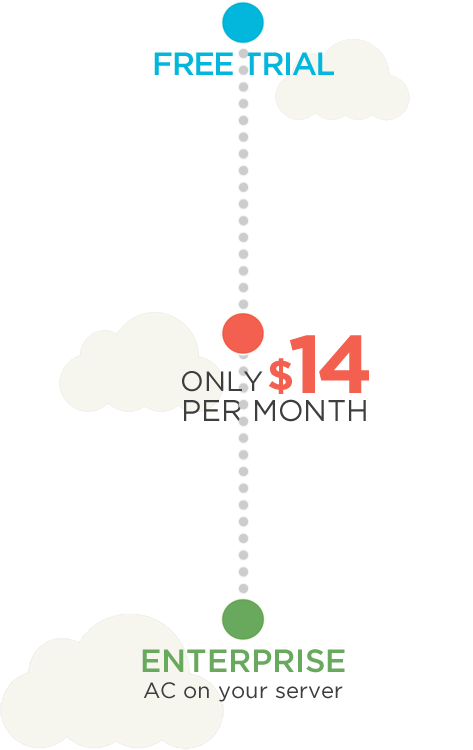
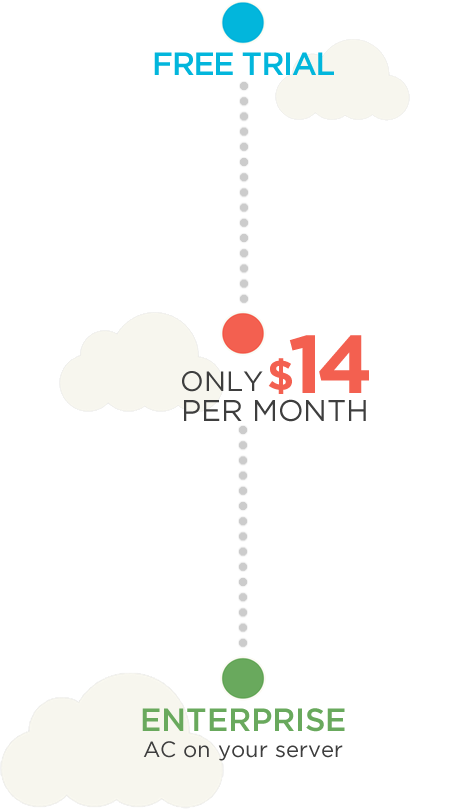
Pricing is now responsive

diff --git a/source/css/products/_pricing.css.scss b/source/css/products/_pricing.css.scss
@@ -2,38 +2,84 @@ body.products {
 
   #overview-sections {
     display: none;
-    @include apply-to(more-than, iphone-landscape) {
+    @include apply-to(more-than, ipad-portrait) {
       display: block;
     }
   }
 
   #pricing-section {
-    background: transparent url('/img/products/track2.png') no-repeat center center;
-    position: relative;
-    top: -20px;
+    background: transparent url('/img/products/track-mobile.png') no-repeat top center;
     z-index: 1;
+
+    @include apply-to(more-than, ipad-portrait) {
+      background-image: url('/img/products/track2.png');
+      position: relative;
+      background-size: 116%;
+      top: -20px;
+    }
+    @include apply-to(more-than, ipad-landscape) {
+      background-size: inherit;
+    }
 
     .container {
       font-size: 0.8em;
-      margin-bottom: 0;
-      height: 729px;
+      height: 980px;
+      margin-top: 30px;
+
+      @include apply-to(more-than, ipad-portrait) {
+        height: 592px;
+        margin-top: 0;
+      }
+      @include apply-to(more-than, ipad-portrait) {
+        height: 730px;
+      }
     }
 
     h3 {
       font: 32px gotham_mediumregular;
       text-transform: uppercase;
       margin: 0;
+      display: none;
+
+      @include apply-to(more-than, ipad-portrait) {
+        display: block;
+      }
     }
 
     article {
-      font-size: 16px;
-      position: relative;
+      font-size: 14px;
+      text-align: center;
+      padding: 0 20px;
+
+      @include apply-to(more-than, iphone-landscape) {
+        font-size: 16px;
+        padding: 0 30px;
+      }
+
+      @include apply-to(more-than, ipad-portrait) {
+        font-size: 14px;
+        padding: 0;
+        position: relative;
+      }
+
+      @include apply-to(more-than, ipad-landscape) {
+        font-size: 16px;
+      }
 
       &:nth-child(1) {
-        width: 315px;
-        top: 108px;
-        text-align: right;
-        left: 5px;
+        margin-top: 100px;
+
+        @include apply-to(more-than, ipad-portrait) {
+          width: 245px;
+          top: 90px;
+          left: 5px;
+          text-align: right;
+          margin: 0;
+        }
+        @include apply-to(more-than, ipad-landscape) {
+          width: 315px;
+          top: 110px;
+        }
 
         a {
           font-family: gotham_mediumregular;
@@ -41,9 +87,20 @@ body.products {
         }
       }
       &:nth-child(2) {
-        width: 350px;
-        top: 42px;
-        left: 574px;
+        margin-top: 240px;
+
+        @include apply-to(more-than, ipad-portrait) {
+          text-align: left;
+          margin: 0;
+          width: 300px;
+          top: -6px;
+          left: 450px;
+        }
+        @include apply-to(more-than, ipad-landscape) {
+          width: 350px;
+          top: 42px;
+          left: 574px;
+        }
 
         a {
           font-family: gotham_mediumregular;
@@ -56,10 +113,20 @@ body.products {
         }
       }
       &:nth-child(3) {
-        width: 415px;
-        top: 184px;
-        left: 297px;
-        text-align: right;
+        margin-top: 220px;
+
+        @include apply-to(more-than, ipad-portrait) {
+          text-align: right;
+          margin: 0;
+          width: 360px;
+          top: 104px;
+          left: 200px;
+        }
+        @include apply-to(more-than, ipad-landscape) {
+          width: 415px;
+          top: 184px;
+          left: 297px;
+        }
 
         h3 {
           font-size: 28px;
